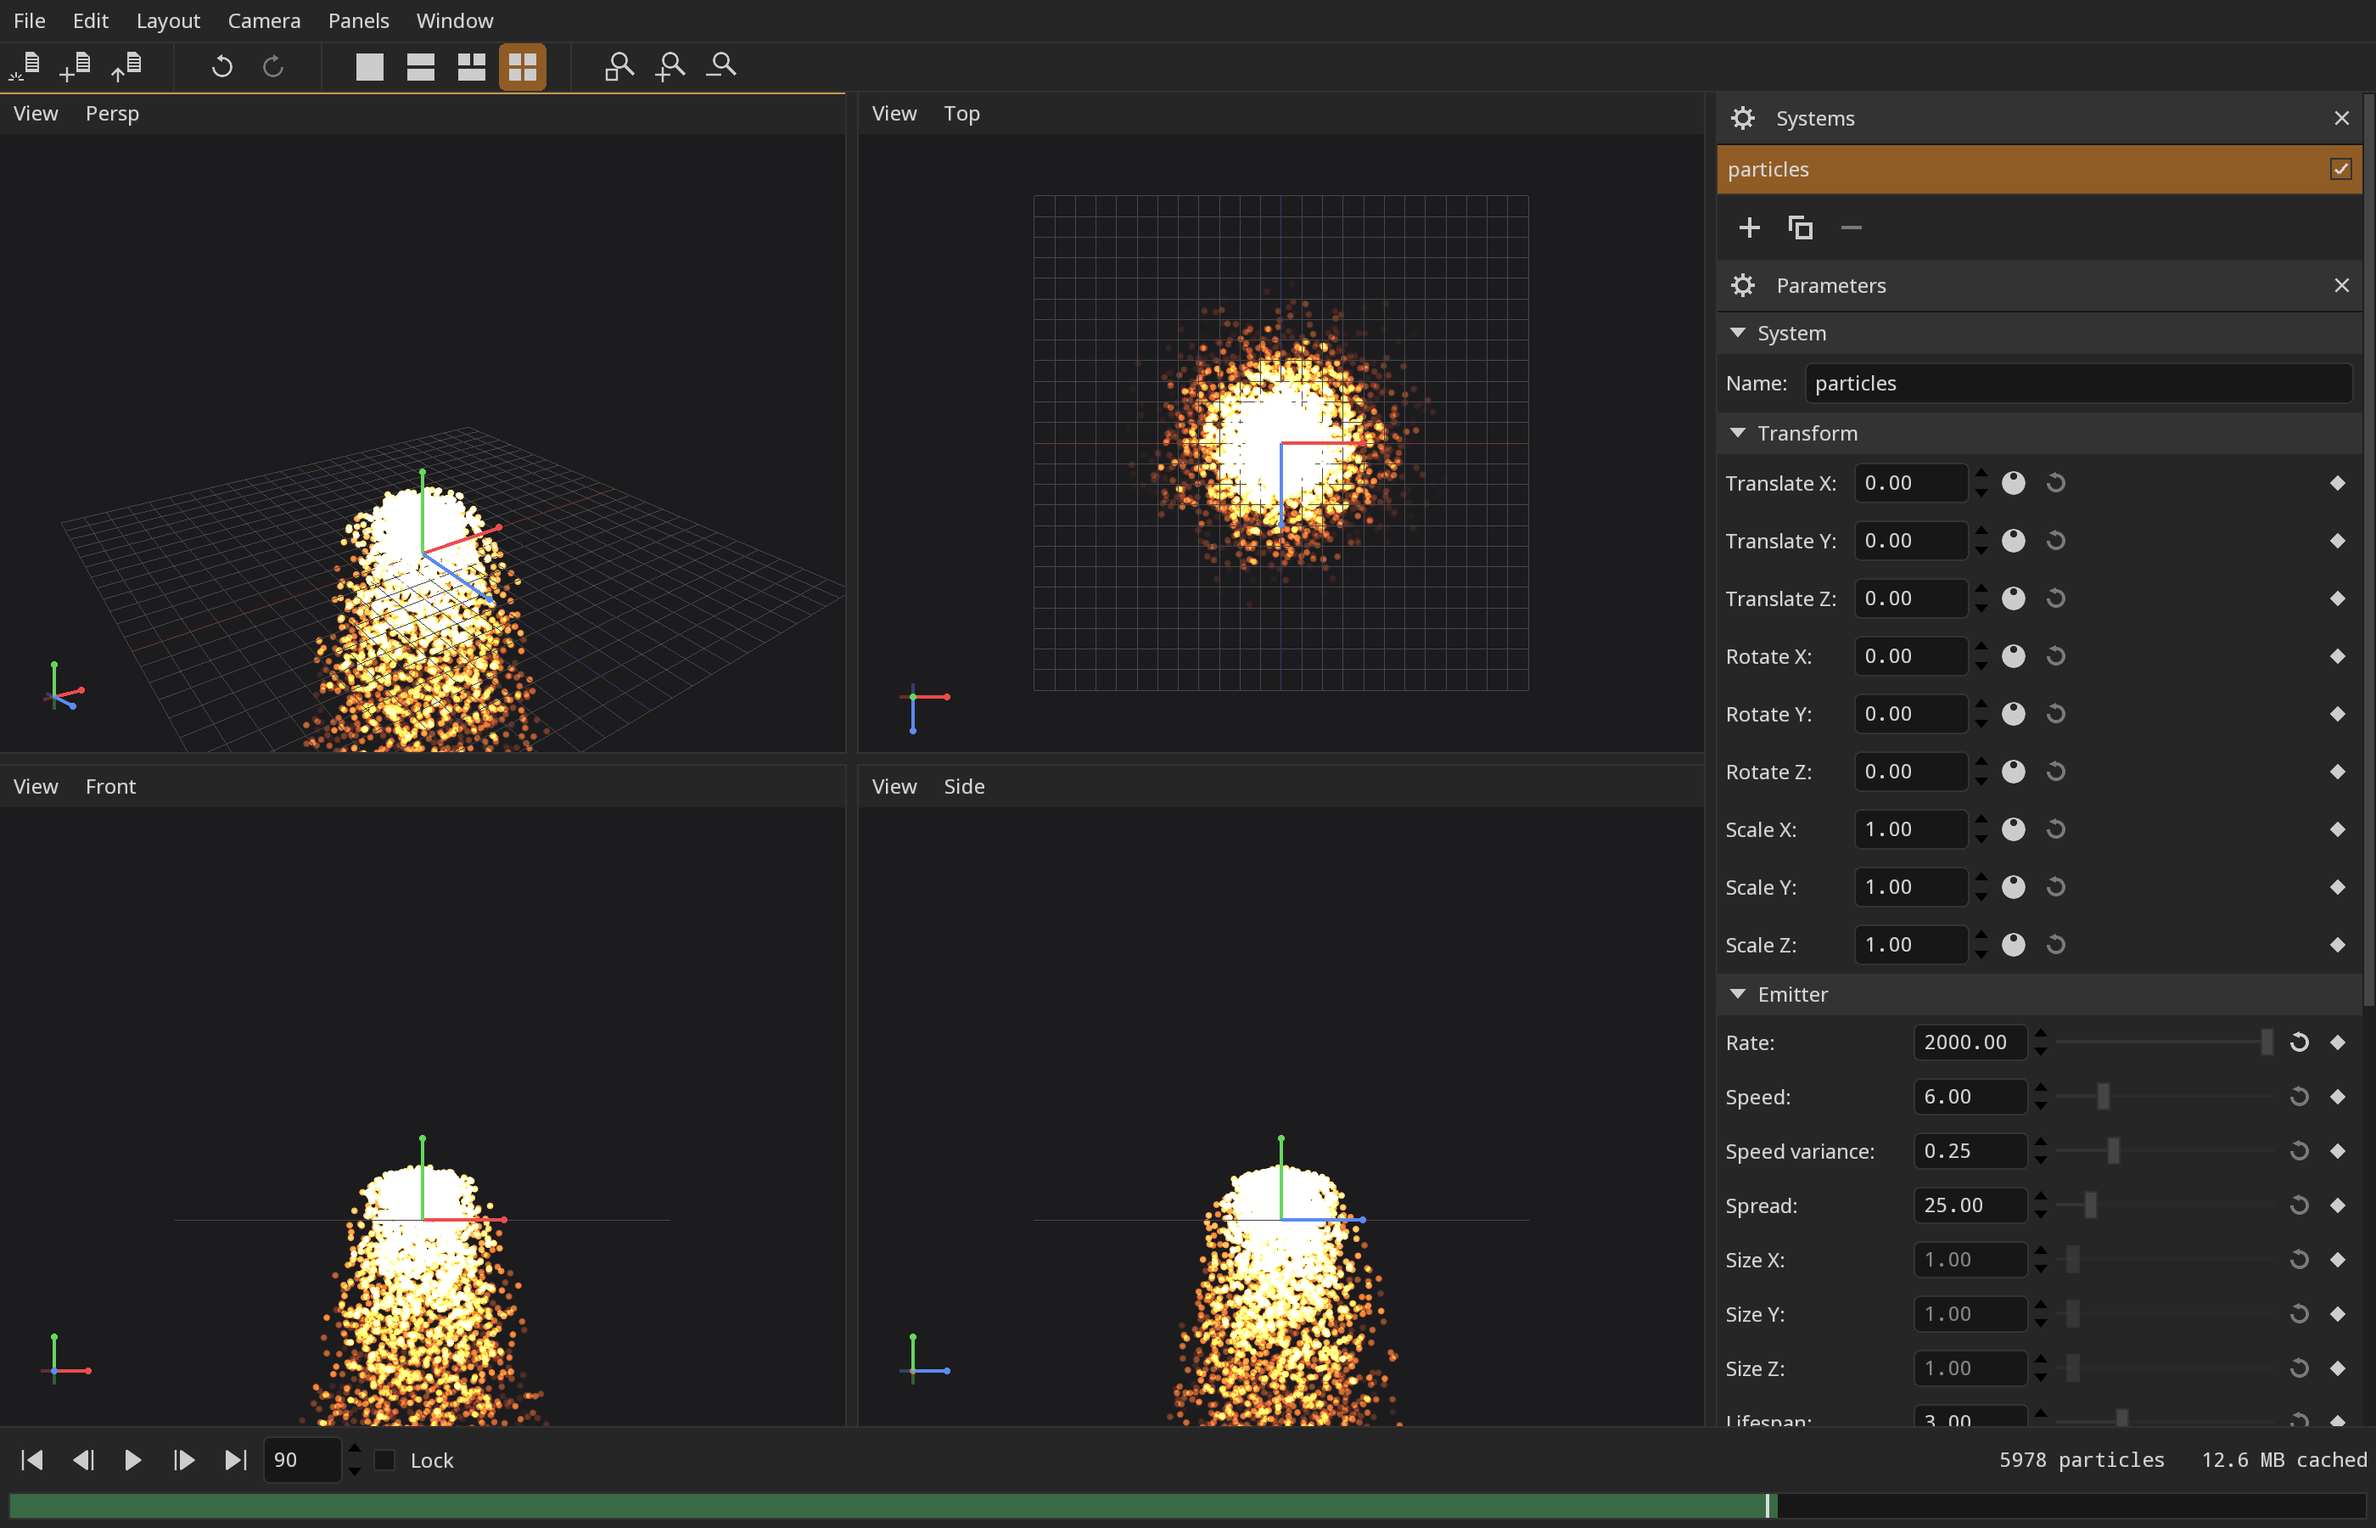
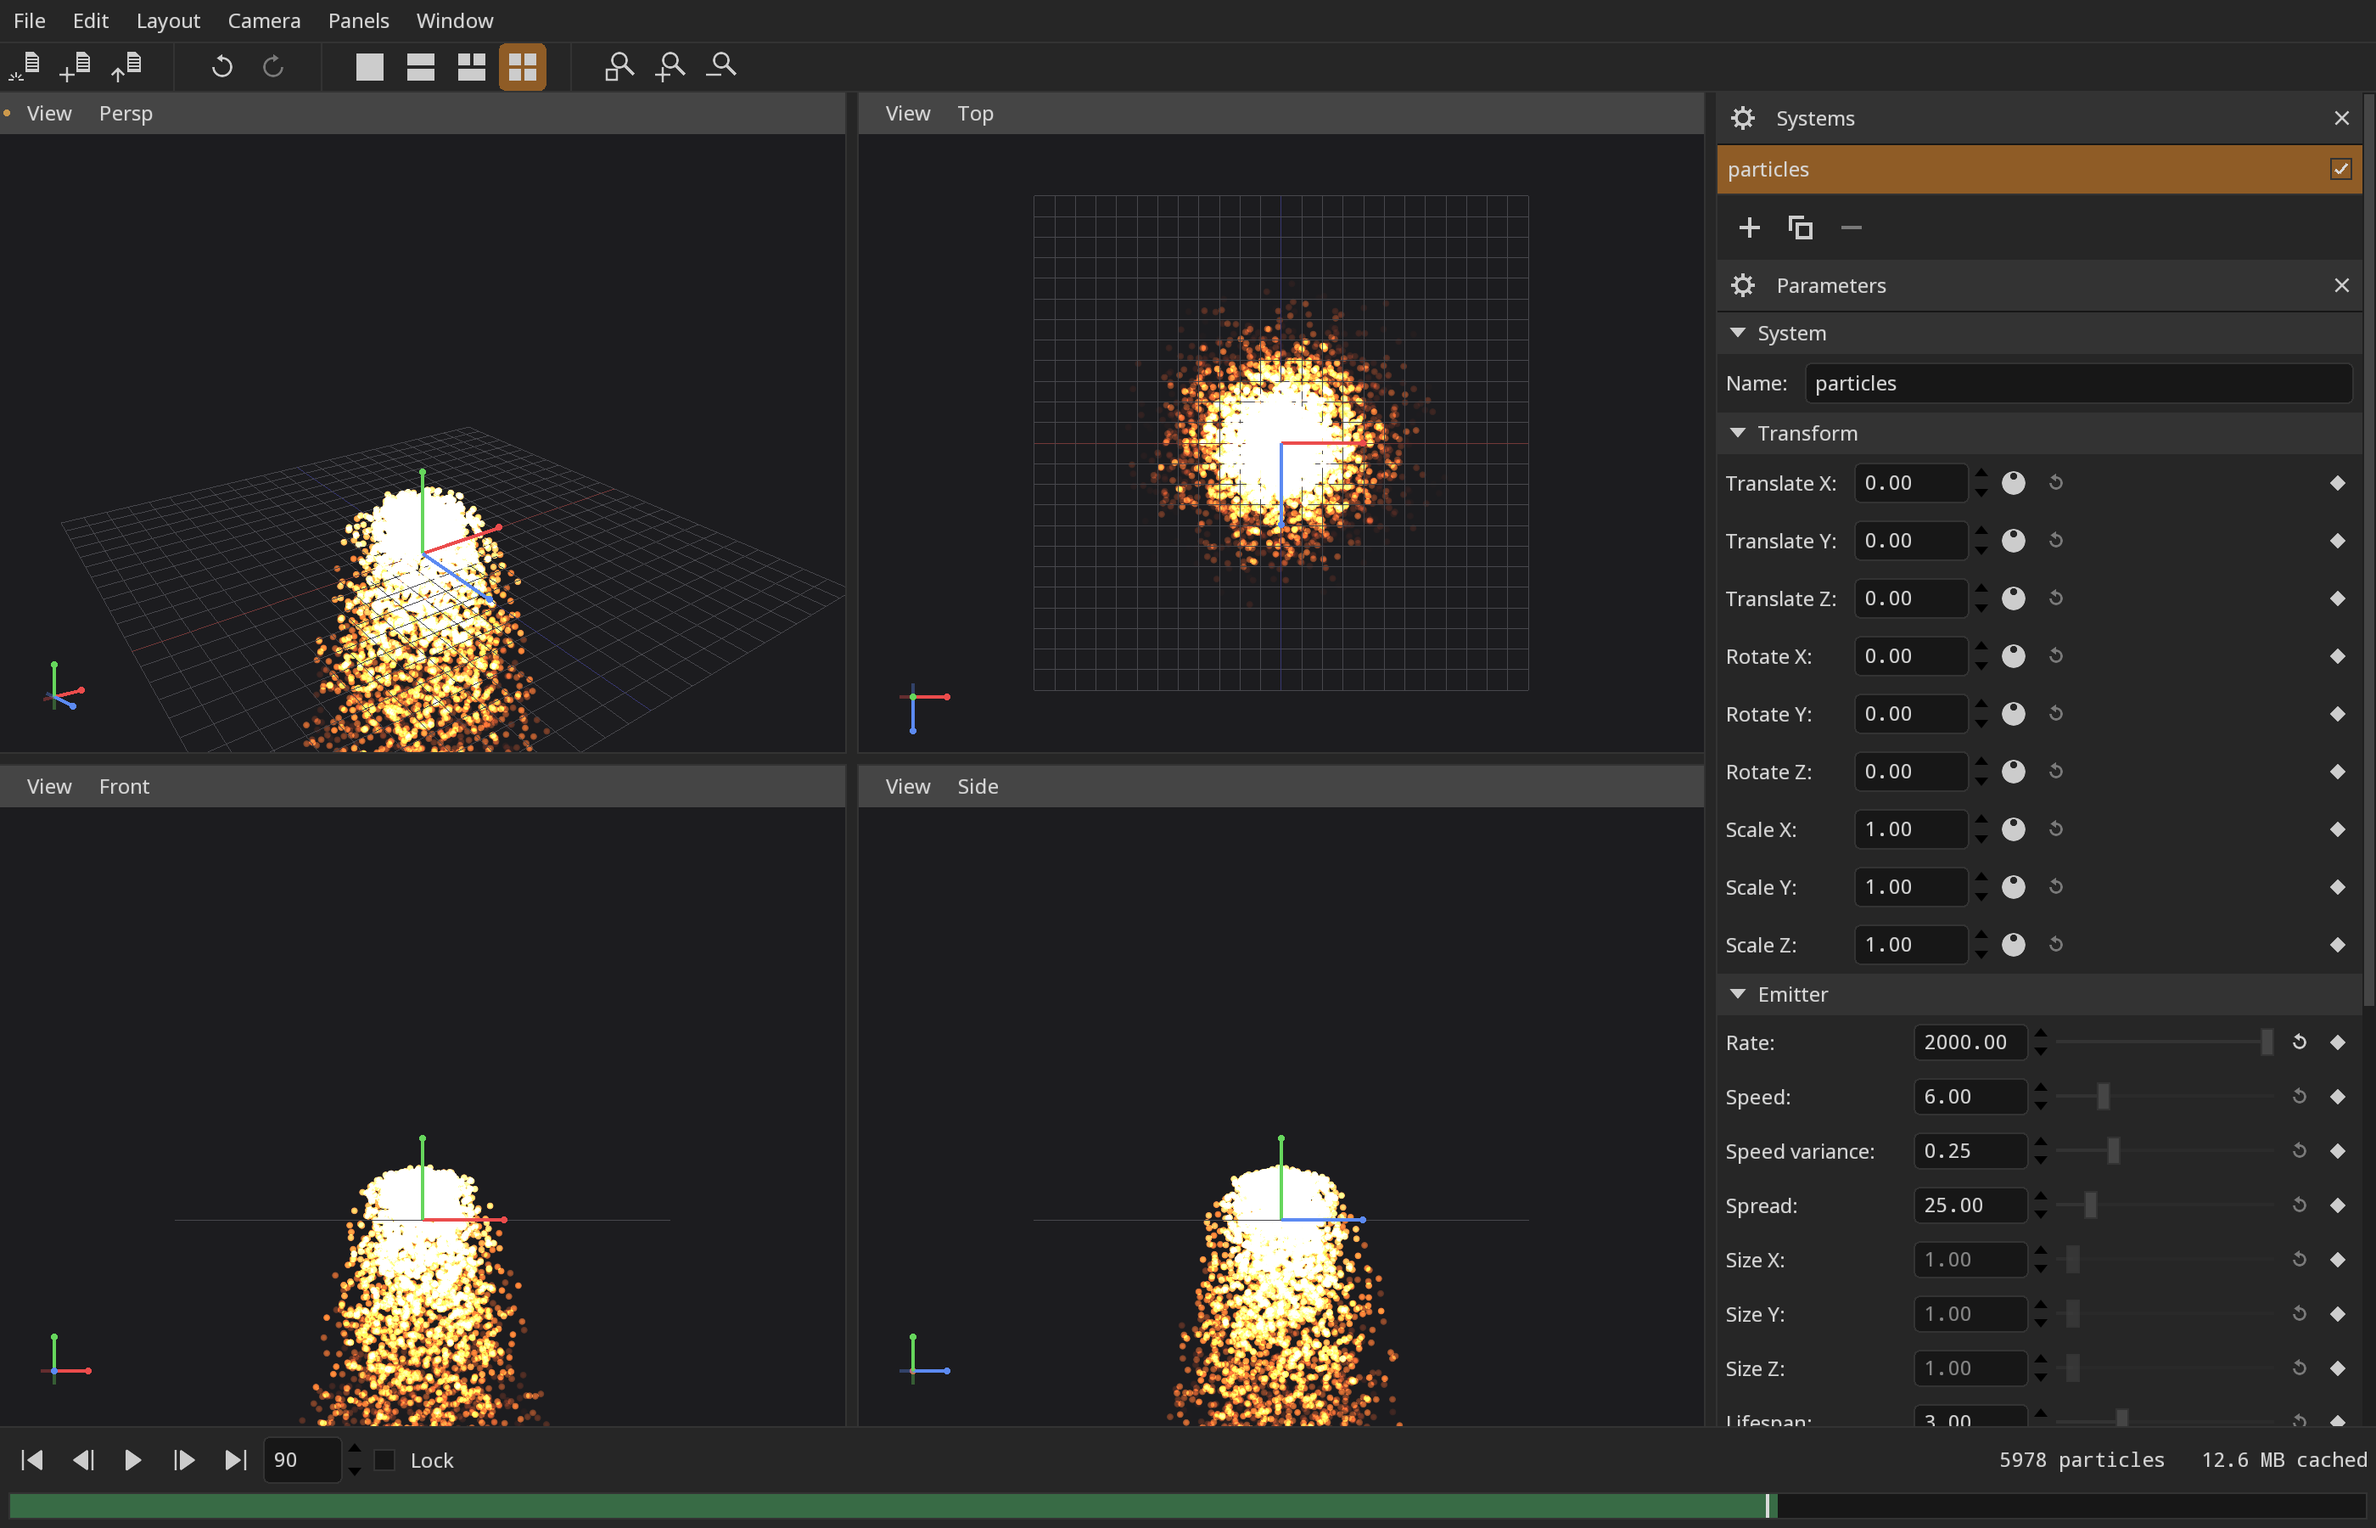
A dot in the header instead of a bar on the edge
Third go at marking the current editor: a border round the whole thing, then
a bar along its top, now a filled dot at the start of the header. The first
two were wrong the same way -- the information is "this one", not "here is a
region", and a region-sized mark says the wrong one of those however faintly
it is drawn. The header is where the editor already says what it is showing.

Picks up feather-tk's shuttle modifiers: Control for the fine step, Shift for
the large one.

Changed region(s): [[0.0, 0.4978, 0.7146, 0.5289], [0.0, 0.0622, 0.7146, 0.0933]]

diff --git a/lib/fx/App/Editor.cpp b/lib/fx/App/Editor.cpp
@@ -19,6 +19,93 @@ namespace fx
 {
     namespace app
     {
+        namespace
+        {
+            //! The mark that says which editor the menus and the keyboard are
+            //! aimed at: a filled dot at the start of the header, beside the
+            //! menus naming what the editor is showing.
+            //!
+            //! It used to be a bar along the top edge, and before that a
+            //! border round the whole editor. Both were a lot of accent colour
+            //! for one bit of information, and both put it somewhere the eye
+            //! was not already looking. The header is where the editor says
+            //! what it is; this is one more word in that sentence.
+            class CurrentDot : public IWidget
+            {
+            protected:
+                CurrentDot() = default;
+
+            public:
+                static std::shared_ptr<CurrentDot> create(
+                    const std::shared_ptr<Context>& context,
+                    const std::shared_ptr<IWidget>& parent = nullptr)
+                {
+                    auto out = std::shared_ptr<CurrentDot>(new CurrentDot);
+                    out->_init(context, "fx::app::CurrentDot", parent);
+                    return out;
+                }
+
+                void setCurrent(bool value)
+                {
+                    if (value == _current)
+                        return;
+                    _current = value;
+                    setDrawUpdate();
+                }
+
+                Size2I getSizeHint() const override
+                {
+                    const int s = _dot + _margin * 2;
+                    return Size2I(s, s);
+                }
+
+                void styleEvent(const StyleEvent& event) override
+                {
+                    IWidget::styleEvent(event);
+                    if (event.hasChanges())
+                    {
+                        _init2 = true;
+                    }
+                }
+
+                void sizeHintEvent(const SizeHintEvent& event) override
+                {
+                    IWidget::sizeHintEvent(event);
+                    if (_init2)
+                    {
+                        _init2 = false;
+                        _dot = event.style->getSizeRole(
+                            SizeRole::Border, event.displayScale) * 4;
+                        _margin = event.style->getSizeRole(
+                            SizeRole::MarginInside, event.displayScale);
+                    }
+                }
+
+                void drawEvent(
+                    const Box2I& drawRect,
+                    const DrawEvent& event) override
+                {
+                    IWidget::drawEvent(drawRect, event);
+                    if (!_current)
+                        return;
+                    const Box2I& g = getGeometry();
+                    event.render->drawMesh(
+                        circle(
+                            V2I(
+                                g.min.x + g.w() / 2,
+                                g.min.y + g.h() / 2),
+                            _dot / 2),
+                        event.style->getColorRole(ColorRole::KeyFocus));
+                }
+
+            private:
+                bool _current = false;
+                bool _init2 = true;
+                int _dot = 0;
+                int _margin = 0;
+            };
+        }
+
         void Editor::_init(
             const std::shared_ptr<Context>& context,
             const std::shared_ptr<SceneModel>& model,
@@ -41,7 +128,12 @@ namespace fx
 
             _setWidget(_layout);
 
-            _menuBar = MenuBar::create(context, _layout);
+            auto headerLayout = HorizontalLayout::create(context, _layout);
+            headerLayout->setSpacingRole(SizeRole::None);
+            headerLayout->setBackgroundRole(ColorRole::Button);
+            _currentDot = CurrentDot::create(context, headerLayout);
+            _menuBar = MenuBar::create(context, headerLayout);
+            _menuBar->setHStretch(Stretch::Expanding);
 
             // The actions outlive the menus they are put into, so the checked
             // state survives the rebuild that a content change causes.
@@ -262,7 +354,7 @@ namespace fx
             if (value == _current)
                 return;
             _current = value;
-            setDrawUpdate();
+            std::dynamic_pointer_cast<CurrentDot>(_currentDot)->setCurrent(value);
         }
 
         void Editor::setPressCallback(const std::function<void(void)>& value)
@@ -271,37 +363,6 @@ namespace fx
         }
 
 
-        void Editor::sizeHintEvent(const SizeHintEvent& event)
-        {
-            IWidget::sizeHintEvent(event);
-            _border = event.style->getSizeRole(
-                SizeRole::Border,
-                event.displayScale);
-        }
-
-
-        void Editor::drawOverlayEvent(const Box2I& drawRect, const DrawEvent& event)
-        {
-            // Mark the editor the menu actions and the keyboard apply to. With
-            // four of them on screen this is the difference between an
-            // arrangement and a guess.
-            //
-            // Drawn in the overlay pass rather than the ordinary one, which
-            // runs before the children: the content fills the editor, so a
-            // border drawn there survived only where the header did not reach.
-            if (_current)
-            {
-                // A bar along the top rather than a box round the whole
-                // editor. Four editors each outlined in an accent colour is a
-                // lot of colour for one bit of information, and the top edge
-                // is where the header already is -- the eye is looking there
-                // to read what the editor is showing.
-                const Box2I& g = getGeometry();
-                event.render->drawRect(
-                    Box2I(g.min.x, g.min.y, g.w(), _border),
-                    event.style->getColorRole(ColorRole::KeyFocus));
-            }
-        }
 
         void Editor::mousePressEvent(MouseClickEvent& event)
         {

diff --git a/lib/fx/App/Editor.h b/lib/fx/App/Editor.h
@@ -98,8 +98,6 @@ namespace fx
             //! it becomes the current one.
             void setPressCallback(const std::function<void(void)>&);
 
-            void sizeHintEvent(const ftk::SizeHintEvent&) override;
-            void drawOverlayEvent(const ftk::Box2I&, const ftk::DrawEvent&) override;
             void tickEvent(bool, bool, const ftk::TickEvent&) override;
             void mousePressEvent(ftk::MouseClickEvent&) override;
 
@@ -126,7 +124,6 @@ namespace fx
 
             bool _current = false;
             std::function<void(void)> _pressCallback;
-            int _border = 0;
             float _particleSize = 3.F;
             DrawType _drawType = DrawType::Point;
 
@@ -144,6 +141,7 @@ namespace fx
             //! current selections and change as the editor does.
             std::shared_ptr<ftk::ActionGroup> _editorTypeGroup;
             std::shared_ptr<ftk::ActionGroup> _viewTypeGroup;
+            std::shared_ptr<ftk::IWidget> _currentDot;
             std::shared_ptr<ftk::MenuBar> _menuBar;
             std::shared_ptr<ftk::Menu> _editorMenu;
             std::shared_ptr<ftk::Menu> _viewMenu;

diff --git a/JOURNAL.md b/JOURNAL.md
@@ -7,6 +7,33 @@ Newest entries at the top.
 
 ---
 
+## 2026-08-11 — A dot instead of a border, and a shuttle that listens to the keyboard
+
+**Third go at the current-editor mark.** A border round the whole editor, then
+a bar along its top, now a filled dot at the start of the header. Each was
+quieter than the last, and the reason the first two were wrong is the same: the
+information is not "here is a region", it is "this one" -- and a region-sized
+mark says the first thing however faint it is drawn. The header is where the
+editor already says what it is showing. The dot is one more word in that
+sentence, and it sits where the eye goes to read the rest of it.
+
+**The shuttle takes modifiers.** A shuttle asks how fast, and how fast deserves
+more than one answer. Control is the fine step, Shift the large one.
+
+Shift rather than Alt, which is what was suggested: `DoubleEdit::scrollEvent`
+and the sliders already use Shift for the large step, so this is one convention
+in the toolkit instead of two. Alt is also the viewport's pan modifier, which
+is a weaker argument -- different widget -- but it pointed the same way.
+
+`ShuttleWidget` now keeps the modifiers of the drag and hands them out, read
+from the move rather than the press so a key taken up part way through takes
+effect from there. Additive; nothing that used the widget had to change.
+
+Tested by dragging the same distance three ways and checking the three
+distances differ. Two of those checks fail without the scaling -- which is
+worth saying, because the last test written against a feather-tk widget passed
+against broken code and the feature turned out not to be broken at all.
+
 ## 2026-08-11 — Shuttles for the transform, and a shot that had stopped asking
 
 A slider maps a made-up span of scene units onto a track. For a rate that is
